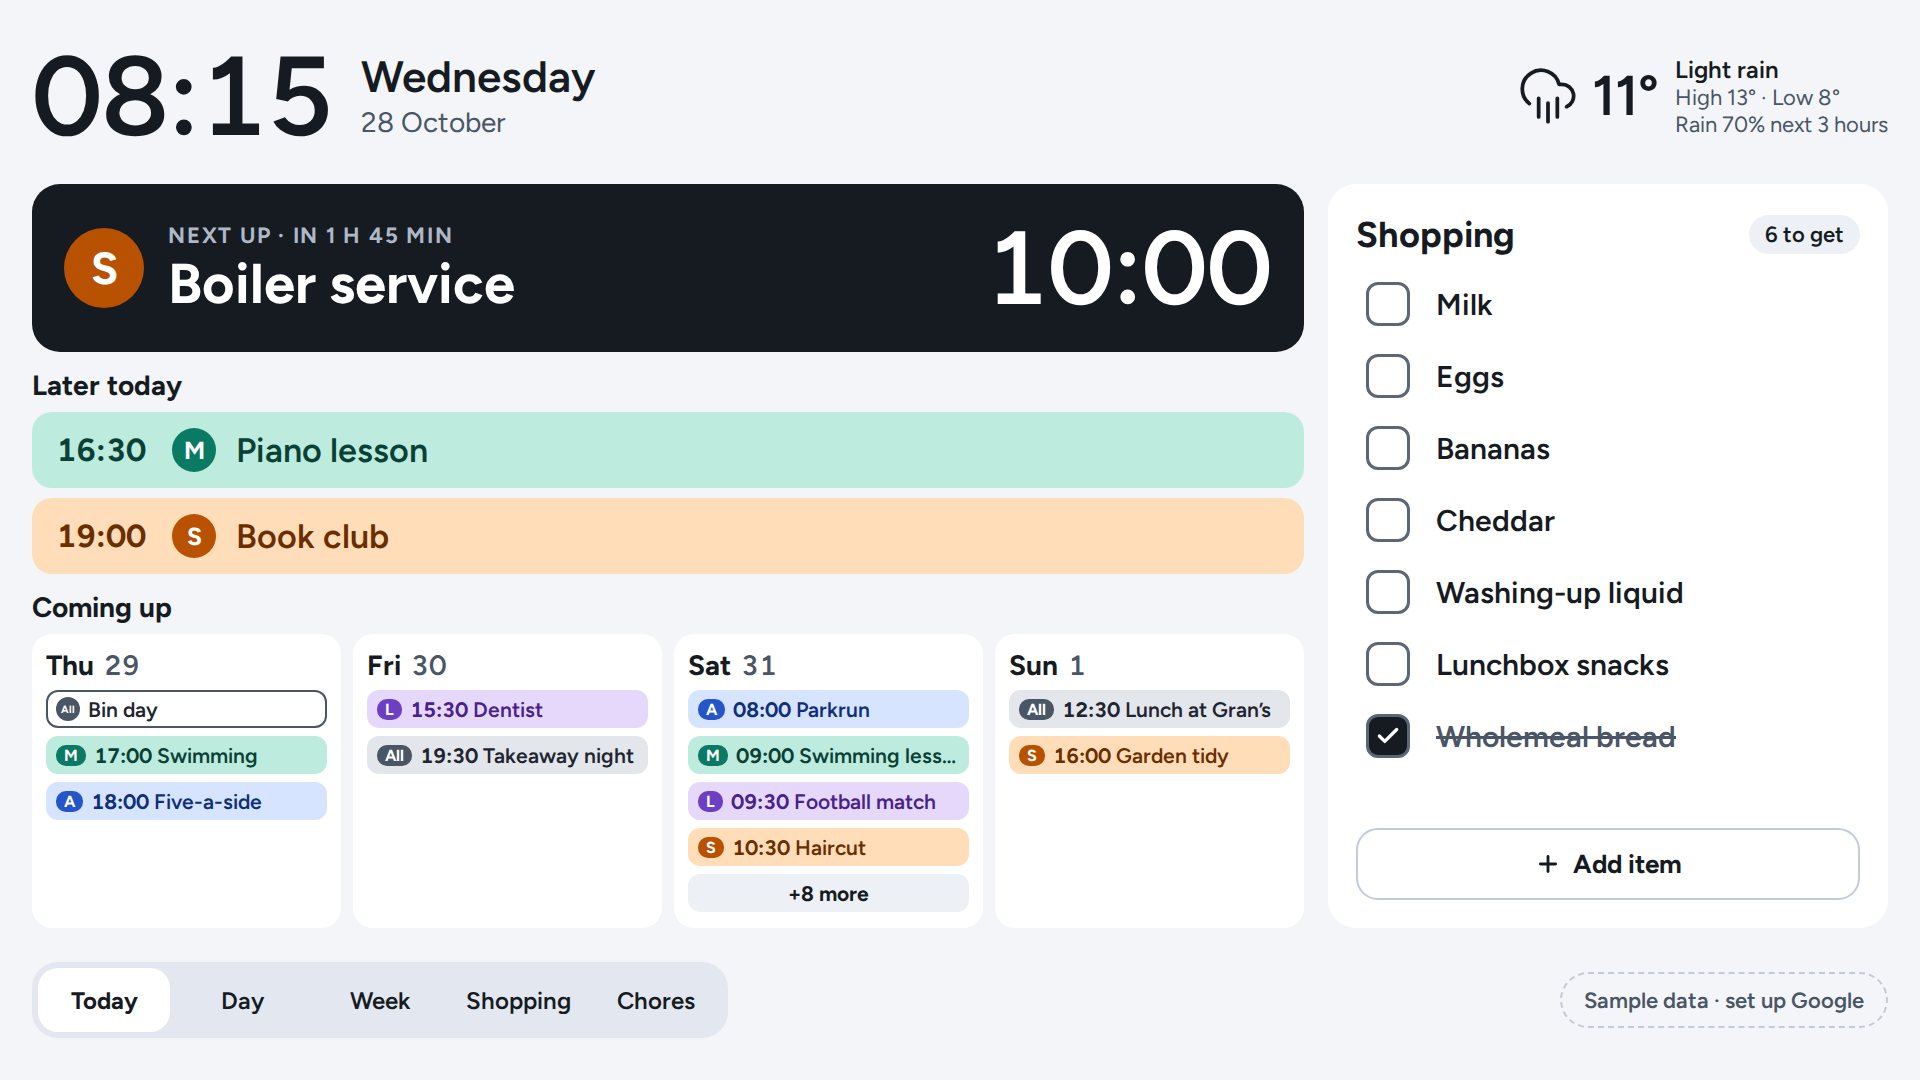
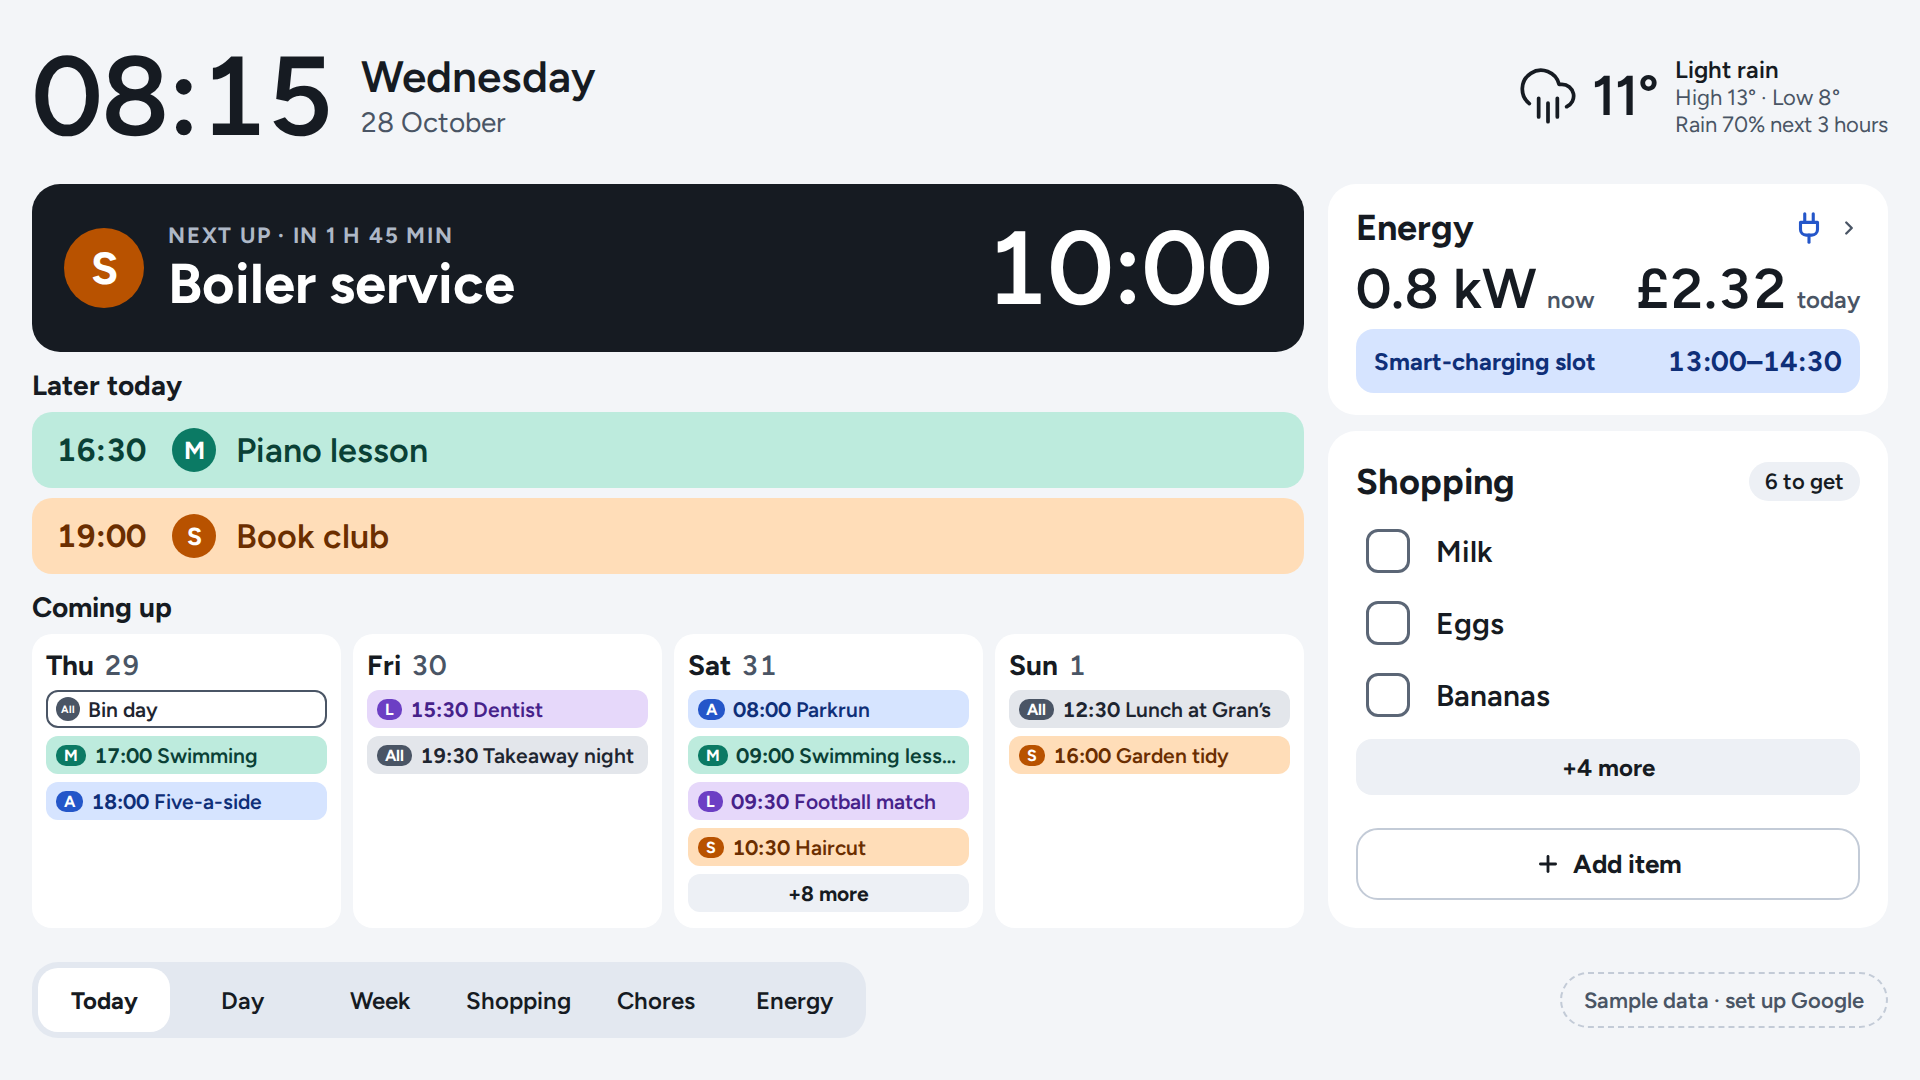
Show usage, today's cost and the car on the Today view's Energy card
With fixed rates and a fixed Off-peak window, the price now and the next
cheap time said the same every day. The card now shows Live demand,
today's cost so far and a plug icon for the car, and a line only when a
Smart-charging slot is on or next. The root README gains Energy, with a
screenshot.

diff --git a/app/src/lib/components/EnergyCard.svelte b/app/src/lib/components/EnergyCard.svelte
@@ -1,41 +1,63 @@
 <script lang="ts">
 	import { clock } from '#lib/clock.svelte.ts';
-	import { bandAt, cheapNow, formatKw, formatPence, type Live, type Rates, type Slot } from '#lib/energy.ts';
+	import {
+		cheapNow,
+		formatKw,
+		formatPounds,
+		totals,
+		type HalfHourUse,
+		type Live,
+		type Rates,
+		type Slot
+	} from '#lib/energy.ts';
 	import { formatTime } from '#lib/time.ts';
 
-	let { rates, slots, live }: { rates: Rates | null; slots: Slot[]; live: Live | null } = $props();
+	let {
+		rates,
+		slots,
+		live,
+		today
+	}: { rates: Rates | null; slots: Slot[]; live: Live | null; today: HalfHourUse[] } = $props();
 
-	const band = $derived(bandAt(clock.now, slots));
 	const cheap = $derived(cheapNow(clock.now, slots));
-	const bandName = { 'off-peak': 'off-peak', slot: 'smart slot', peak: 'peak' };
+	// The Off-peak window never moves, so it's only worth a line when a Smart-charging slot is on or next.
+	const slot = $derived(cheap.current ? (cheap.current.slot ? cheap.current : null) : cheap.next.slot ? cheap.next : null);
+	const spent = $derived(rates && totals(today, rates, slots));
+	const plugged = $derived(live !== null && live.car !== 'unplugged');
+	const carLabel = $derived(!live ? 'Car charger not reporting' : plugged ? 'Car plugged in' : 'Car not plugged in');
 	const time = (iso: string) => formatTime(new Date(iso));
 </script>
 
-<!-- The Today view's glance at Energy: the price now and the next cheap time. Opens the Energy Section. -->
+<!-- The Today view's glance at Energy: what the house is using, what today has cost, whether the car's plugged in,
+and a Smart-charging slot when there is one. Opens the Energy Section. -->
 <a class="card" href="/energy">
 	<div class="head">
 		<span class="title">Energy</span>
-		<span class="using">
-			{#if live}Using {formatKw(live.watts)}{/if}
-			<svg width="22" height="22" viewBox="0 0 24 24" fill="none" stroke="currentColor" stroke-width="2.6" stroke-linecap="round" stroke-linejoin="round" aria-hidden="true"><polyline points="9 18 15 12 9 6" /></svg>
+		{#if live}
+			<!-- A plug: blue when the car's plugged in, struck through when it isn't. -->
+			<svg class="plug" class:plugged width="34" height="34" viewBox="0 0 24 24" fill="none" stroke="currentColor" stroke-width="2.2" stroke-linecap="round" stroke-linejoin="round" role="img" aria-label={carLabel}>
+				<title>{carLabel}</title>
+				<path d="M12 22v-5" /><path d="M9 8V2" /><path d="M15 8V2" /><path d="M18 8v5a4 4 0 0 1-4 4h-4a4 4 0 0 1-4-4V8Z" />
+				{#if !plugged}<line x1="3" y1="3" x2="21" y2="21" />{/if}
+			</svg>
+		{/if}
+		<svg width="22" height="22" viewBox="0 0 24 24" fill="none" stroke="currentColor" stroke-width="2.6" stroke-linecap="round" stroke-linejoin="round" aria-hidden="true"><polyline points="9 18 15 12 9 6" /></svg>
+	</div>
+	<div class="figures">
+		<span class="figure">
+			<span class="big tabular">{live ? formatKw(live.watts) : '—'}</span>
+			<span class="dim">now</span>
+		</span>
+		<span class="figure">
+			<span class="big tabular">{spent ? formatPounds(spent.houseCost + spent.carCost) : '—'}</span>
+			<span class="dim">{spent ? 'today' : 'prices not known'}</span>
 		</span>
 	</div>
-	{#if rates}
-		<div class="now">
-			<span class="price tabular">{formatPence(band === 'peak' ? rates.peak : rates.offPeak)}</span>
-			<span class="dim">now, {bandName[band]}</span>
-		</div>
+	{#if slot}
 		<div class="cheap">
-			{#if cheap.current}
-				<span>Cheap now · {cheap.current.slot ? 'smart slot' : 'off-peak'}</span>
-				<span class="tabular">until {time(cheap.current.to)}</span>
-			{:else}
-				<span>Next cheap · {cheap.next.slot ? 'smart slot' : 'off-peak'}</span>
-				<span class="tabular">{time(cheap.next.from)} · {formatPence(rates.offPeak)}</span>
-			{/if}
+			<span>Smart-charging slot</span>
+			<span class="tabular">{slot === cheap.current ? `now until ${time(slot.to)}` : `${time(slot.from)}–${time(slot.to)}`}</span>
 		</div>
-	{:else}
-		<div class="dim">Prices not known</div>
 	{/if}
 </a>
 
@@ -53,26 +75,33 @@
 	.head {
 		display: flex;
 		align-items: center;
-		justify-content: space-between;
-	}
-	.title {
-		font-size: 36px;
-		font-weight: 700;
-	}
-	.using {
-		display: flex;
-		align-items: center;
 		gap: 6px;
-		font-size: 22px;
-		font-weight: 600;
 		color: var(--dim);
 	}
-	.now {
+	.title {
+		flex: 1;
+		font-size: 36px;
+		font-weight: 700;
+		color: var(--ink);
+	}
+	.plug {
+		margin-right: 6px;
+	}
+	.plug.plugged {
+		color: var(--car);
+	}
+	.figures {
+		display: flex;
+		justify-content: space-between;
+		gap: 16px;
+	}
+	.figure {
 		display: flex;
 		align-items: baseline;
-		gap: 12px;
+		gap: 10px;
+		white-space: nowrap;
 	}
-	.price {
+	.big {
 		font-size: 56px;
 		font-weight: 600;
 		line-height: 1;

diff --git a/app/src/routes/+page.server.ts b/app/src/routes/+page.server.ts
@@ -21,6 +21,6 @@ export const load: PageServerLoad = async () => {
 		calendarStatus: calendar.status,
 		owners: calendar.household,
 		shopping,
-		energy: { rates: energy.tariff?.rates ?? null, slots: energy.slots, live: energy.live }
+		energy: { rates: energy.tariff?.rates ?? null, slots: energy.slots, live: energy.live, today: energy.today }
 	};
 };

diff --git a/README.md b/README.md
@@ -1,8 +1,8 @@
 # FamilyHub
 
-**A family wall display for the kitchen.** One glance at a touchscreen by the kettle shows what's on today and who it's for, the week ahead, and the shopping list. Nobody has to ask, shout up the stairs, or check four phones.
+**A family wall display for the kitchen.** One glance at a touchscreen by the kettle shows what's on today and who it's for, the week ahead, the shopping list, and what the electricity is costing. Nobody has to ask, shout up the stairs, or check four phones.
 
-![The Today view: the next Event with a countdown, the rest of today, the next four days, and the shopping list](docs/images/today-view.png)
+![The Today view: the next Event with a countdown, the rest of today, the next four days, an Energy card with what the house is using, today's cost so far, a plug for the car and a Smart-charging slot, and the shopping list](docs/images/today-view.png)
 
 <sub>The Today view, running on a PC with sample data.</sub>
 
@@ -13,6 +13,7 @@ FamilyHub is a personal project, built by one family for its own kitchen. Buildi
 - **Shows everyone's day at a glance.** It reads the Household's Google Calendars: one per person, plus a shared Family calendar. Each person has a colour and an initial, so you can tell whose an Event is from across the room.
 - **Keeps the shopping list on the wall.** Add or tick off items on the screen, and in the shop on your phone. The list lives in Google Tasks, so phones need nothing new. Tap to tick off, long-press to remove.
 - **Makes chores a game for the kids.** Each child has a lane of Chores for the morning, after school and the evening, ticks them off at the screen, and earns Stars. Bonus jobs are up for grabs for extra Stars, and children who do one together each get them. Finishing a Routine gets a chime and a burst of stars.
+- **Shows when electricity is cheap, and where it goes.** It reads the Household's Intelligent Octopus Go rates and Smart-charging slots from Octopus, and the Zappi car charger's usage from myenergi. It shows what the house is using now, what today has cost, and when to start the dishwasher, washing machine and tumble drier so they finish while it's cheap. Each half-hour is split into the house and the car.
 - **Fits a busy day without scrolling.** Busy days switch to compact rows, and anything that still doesn't fit goes behind a "+N more" that opens the full day. Nothing is cut off silently.
 - **Looks after itself.** It keeps showing the last plan if the Wi-Fi drops, says when it last updated, and tells the family in plain words when it needs attention.
 - **Stays at home.** It runs on a Raspberry Pi in the kitchen, and nothing on the internet can reach it.
@@ -29,7 +30,12 @@ FamilyHub is a personal project, built by one family for its own kitchen. Buildi
 | ![The Chores section: a lane each for Maya and Leo with their Morning Chores ticked off and their Stars, and Up for grabs beside them with the dishwasher done by Leo and Maya together](docs/images/chores-view.png) | ![A celebration over the Chores section: "Morning done, Maya!" with her badge in a ring of stars and "+3 Stars"](docs/images/chores-celebration.png) |
 | A lane per child, with the Routine whose time it is open and the rest folded away. A tap ticks a Chore off and earns its Stars. Bonus jobs are up for grabs for whoever does them first. | Ticking off the last Chore of a Routine plays a chime and shows a burst of stars, which closes by itself. |
 
-The screenshots use the app's built-in sample week and sample Chores, and are taken by the screenshot tests. On the real Hub, the corner shows when the Calendars last updated instead of "Sample data".
+| Energy |
+|---|
+| ![The Energy section: the price now, what the house is using with the car plugged in, and the next cheap time, a chart of today's half-hours with the car's overnight charging over Peak, Off-peak and a Smart-charging slot, the best time to run three appliances, and yesterday's cost split into house and car](docs/images/energy-view.png) |
+| The price now, what the house is using, and the next cheap time. Today's half-hours show the car's charging stacked on the house's use, over which were Peak, Off-peak or a Smart-charging slot. Each appliance gets a window to start in so it finishes while it's cheap, and yesterday's cost is split into the house and the car. |
+
+The screenshots use the app's built-in sample week, sample Chores and sample energy, and are taken by the screenshot tests. On the real Hub, the corner shows when the Calendars last updated instead of "Sample data".
 
 ## Where it's going
 

diff --git a/design/mockups/energy/notes.md b/design/mockups/energy/notes.md
@@ -51,7 +51,9 @@ A test against the Household's Octopus account on 31 October 2026 found:
 
 ## The Today view card (board C)
 
-Above the Shopping list: the price now, Peak or Off-peak, and the next cheap time with its rate. Tapping it opens the Energy Section. The Shopping list shows 4 items and "+N more" to make room.
+Above the Shopping list: Live demand, today's cost so far, and a plug icon, blue when the car is plugged in and struck through when it isn't. A Smart-charging slot gets a line when one is on or next; the Off-peak window doesn't, as it never moves. Tapping the card opens the Energy Section. The Shopping list shows 3 items and "+N more" to make room.
+
+Built differently from board C, which showed the price now and the next cheap time (31 October 2026): with two fixed rates and a fixed window, those say the same thing every day, while usage, cost and the car change.
 
 ## Settings
 
